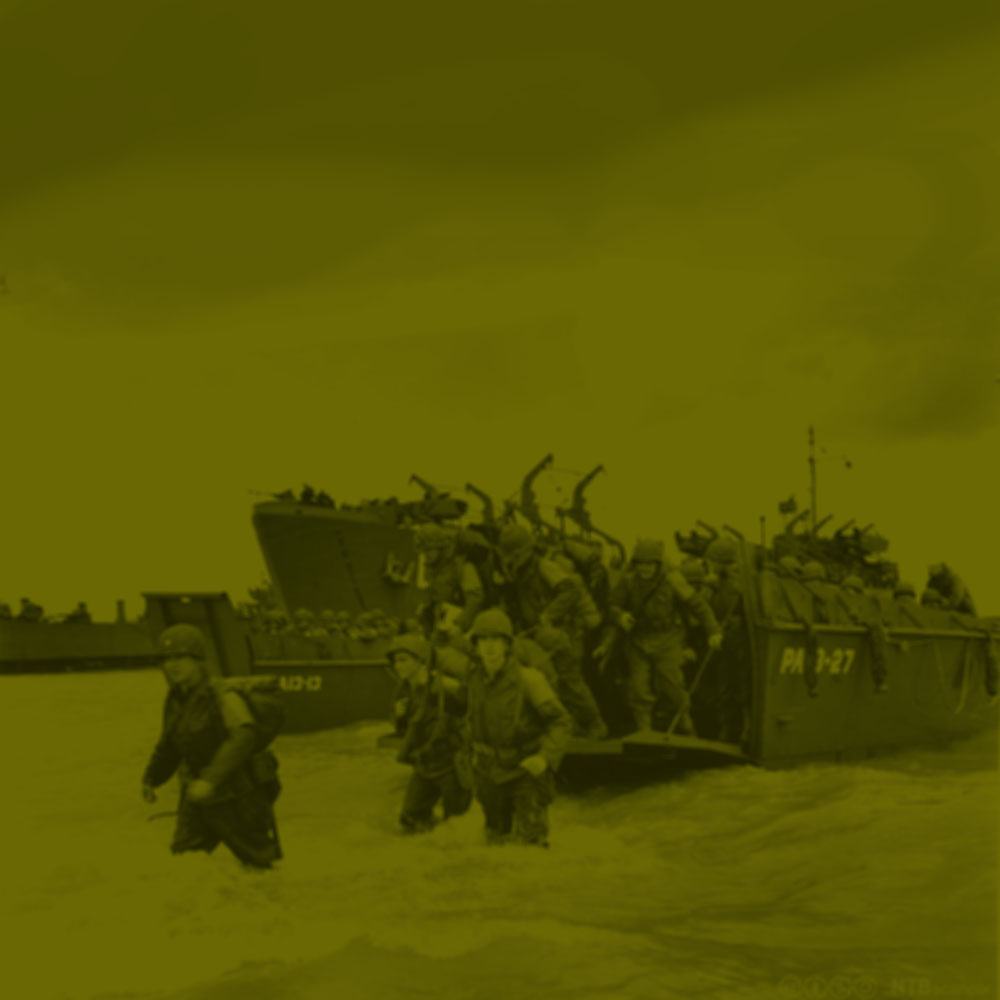
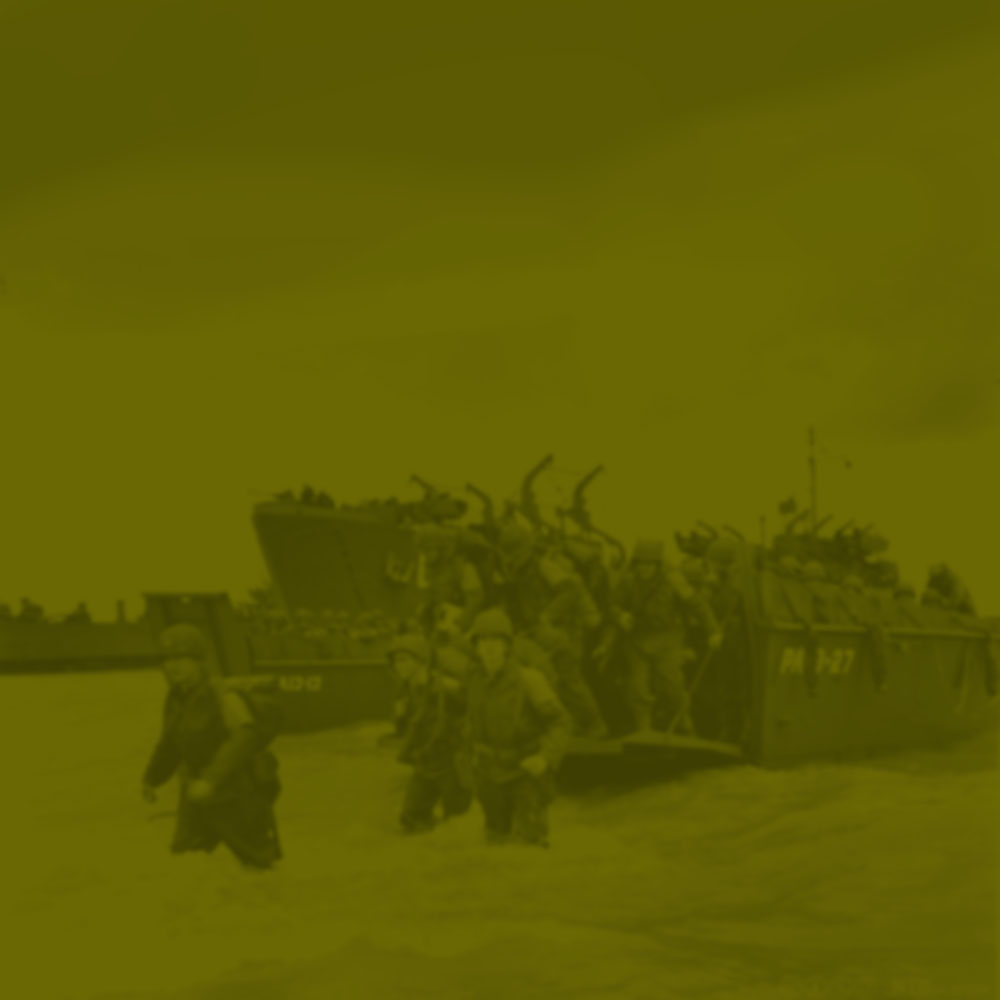
Reduced contrast on background. Upped contrast on nodes (mix-blend-mode). Stronger drop shadows.

diff --git a/scss/style.scss b/scss/style.scss
@@ -118,7 +118,7 @@ button {
 	overflow: hidden;
 	cursor: pointer;
 	z-index: 2;
-	filter: drop-shadow(0 4px 2px rgba(0, 0, 0, 0.5));
+	filter: drop-shadow(0 4px 2px rgba(0, 0, 0, 0.6));
 }
 
 @media only screen and (min-width: 1250px) { 
@@ -140,7 +140,8 @@ button {
 	content: '';
 	position: absolute;
 	background: $tint-color;
-	opacity: 0.4;
+	opacity: 0.6;
+	mix-blend-mode: multiply;
 	top: 0;
 	left: 0;
 	right: 0;
